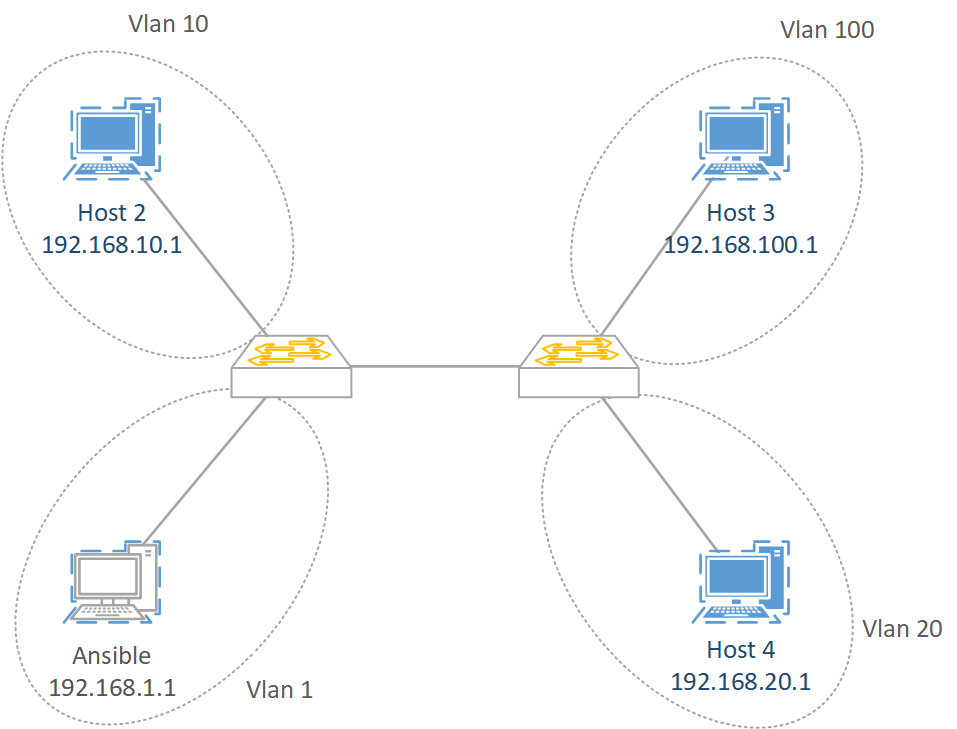
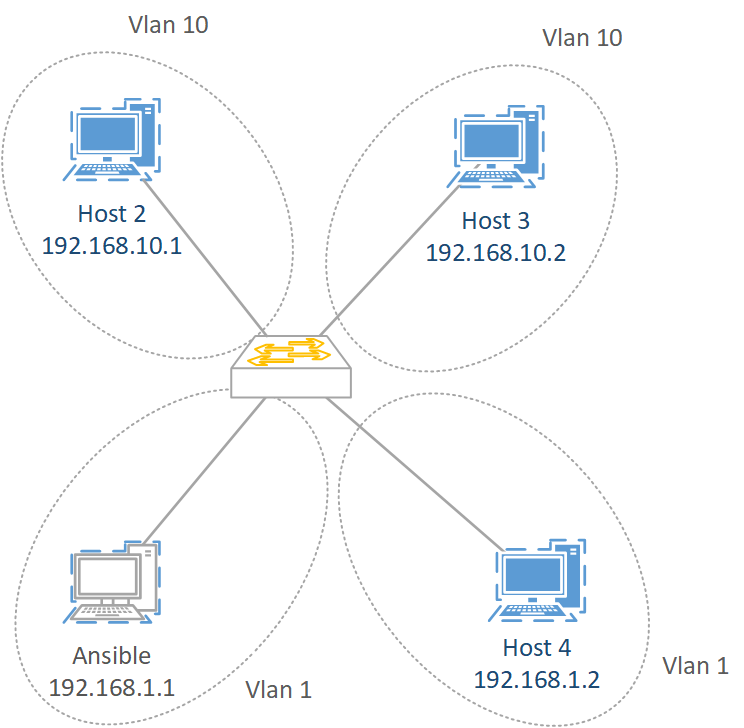
Correction des Schémas de VLAN

diff --git a/2.campus_lan/collapsed_core.md b/2.campus_lan/collapsed_core.md
@@ -18,7 +18,7 @@ Pour démarrer cette section vous configurerez un switch avec 2 hôtes et tester
 
 L'objectif de cette section est de segmenter le domaine de diffusion unique de la section précédente en multiple domaines grâce aux VLANs
 
-![network-diagram](../assets/collasped_core_2_vlans.png)
+![network-diagram](../assets/collasped_core_vlans.png)
 
 [Reconfigurez](../1.env_setup/ansible_validation.md#configuration-de-lip) l'IP de l'hôte 2 avec les valeurs : VLAN = 10 et HOST = 1
 
@@ -33,7 +33,7 @@ L'objectif de cette section est de segmenter le domaine de diffusion unique de l
 
 L'objectif de cette section est d'étendre la segmentation à un autre switch, et donc t'étendre le LAN sans perdre le bénéfice des Vlans.
 
-![network-diagram](../assets/collasped_core_vlans.png)
+![network-diagram](../assets/collasped_core_2_vlans.png)
 
 
 ### VLANs: VTP, DTP

diff --git a/README.md b/README.md
@@ -100,7 +100,7 @@ Notepad++ peut être rendu plus joli avec le fichier de [langage Cisco](assets/n
 
 5. Network services ![completion](https://img.shields.io/badge/completion-0%25-red) 
 	1. Syslog/ Splunk
-	2. LibreNMS
+	2. LibreNMS or Zabbix
 	3. Netdisco
 	4. Guacamole Network Bastion
 	5. Ansible
@@ -109,5 +109,5 @@ Notepad++ peut être rendu plus joli avec le fichier de [langage Cisco](assets/n
 	1. Ecriture de playbook:
 		1. Sauvegarde des configurations
 		2. Gestion de VLAN
-	2. Introduction à AWX
+	2. Introduction à Ansible Semaphore
 
